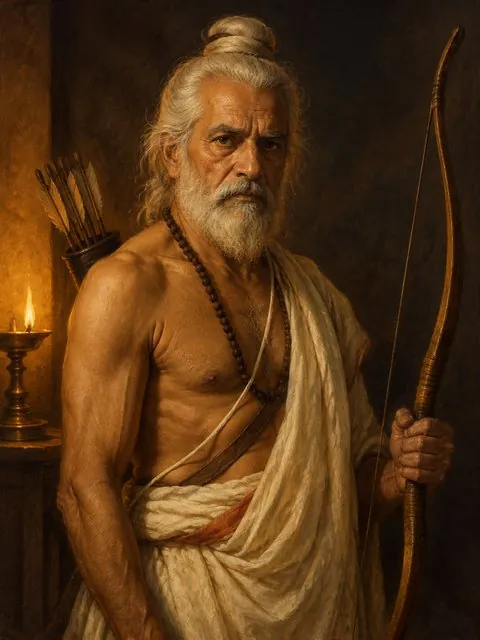
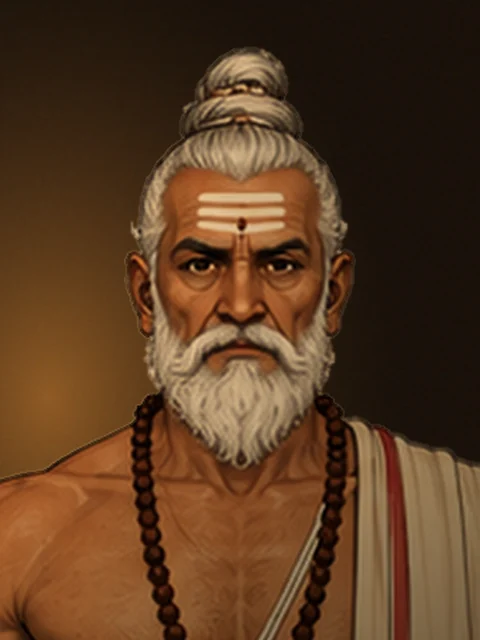
Version 57: the 18 portraits that contradicted the sheets are cut from the sheets
The owner chose to make do without a painter. Each of the 18 portraits
is now the head and shoulders from the person's own sheet, lifted off
the paper and set on a dark, lamp-lit ground (art/p_<id>.webp, 480 by
640 as before, so no code changed). The nine story paintings stay.

tools/portraits/cut_portrait.py does it: paints out the sheet's
lettering, finds the paper, peels the white glow and the loose grey
strands the sheets draw round a figure, frames head and shoulders, and
grades toward lamp light. JOBS lists what was tuned by hand per sheet.

Docs: the brief, the notes, the review, the costume audit, the GDD and
the asset review say what was done, and that the 3D heads (set to the
old paintings on 12 November) do not follow the portraits yet.

Tests: rules3d 100, tests3d_rules 18, rules, golden 16 lives, fights
within bands, content, smoke3d 3 cases; both parts checked.

Claude-Session: https://claude.ai/code/session_013J1a58CtyCknkV7JsqcsjP

diff --git a/tools/portraits/cut_portrait.py b/tools/portraits/cut_portrait.py
@@ -1,0 +1,182 @@
+#!/usr/bin/env python3
+"""Portraits cut from the artist's sheets.
+
+The sheets are the true look of every person. Where a painted portrait contradicted its sheet, the
+portrait is now cut from the sheet itself: the head and shoulders are lifted off the paper, the sheet's
+title is painted out, and the figure is set on a dark, lamp-lit ground and graded warm, so that it sits
+beside the painted portraits that remain. (Decided 15 November 2026: docs/Repaint_Brief.md.)
+
+  python3 tools/portraits/cut_portrait.py <sheets> <out> [--install] [--only id,id] [--look]
+
+<sheets>   a folder holding index.json ({"files": {sheet name: path}}) and the sheets themselves
+           (3000 by 1688). A path is read from that folder, or from the folder above it. The sheets
+           are not in this repo.
+<out>      where the 480 by 640 PNGs go (p_<id>.png).
+--install  also writes art/p_<id>.webp, the files the game shows.
+--look     also writes <out>/look.jpg: every old portrait beside the new one, with the round face the
+           game shows.
+
+Needs Pillow, numpy and scipy. JOBS below is the whole list; add a line to give another person a face.
+"""
+import json, os, sys
+import numpy as np
+from PIL import Image, ImageDraw, ImageFilter, ImageFont
+from scipy import ndimage as ndi
+
+ROOT = os.path.dirname(os.path.dirname(os.path.dirname(os.path.abspath(__file__))))
+# id -> (sheet, settings). tol: how far from the paper's colour still counts as paper (lower where white cloth lies on the paper).
+JOBS = {
+    "arjuna": ("arjuna_grown_court", {"erase": [(0, 0, 299, 116)]}),          # the title's second line ends against the wing of his diadem
+    "bhima": ("bhima_grown_court", {}),
+    "yudhishthira": ("yudhishthira_grown_court", {"gaps": [(240, 577)]}),
+    "karna": ("karna_grown_court", {"gaps": [(226, 575)]}),
+    "duryodhana": ("duryodhana_grown_court", {"erase": [(0, 0, 760, 56)]}),   # the title's last letter stands on the tip of his crown
+    "bhishma": ("bhishma_old_court", {}),
+    "drona": ("drona_old_teacher", {}),
+    "kripa": ("kripa_old_court", {}),
+    "vidura": ("vidura_old_court", {}),
+    "ashwatthama": ("ashwatthama_grown_war", {}),
+    "dhrishtadyumna": ("dhrishtadyumna_grown_war", {}),
+    "satyaki": ("satyaki_grown_war", {}),
+    "abhimanyu": ("abhimanyu_youth_war", {}),
+    "ghatotkacha": ("ghatotkacha_grown_war", {"gaps": [(568, 655), (190, 640)]}),
+    "mauni": ("mauni_old_forest", {}),
+    "charu": ("charu_grown_smith", {"redline": (186, 210)}),
+    "ugra_adult": ("ugra_grown_home", {"gaps": [(243, 335)], "redline": (186, 210)}),
+    "ugra_young": ("ugra_grown_home", {"gaps": [(243, 335)], "redline": (186, 210)}),   # there is no sheet of him young
+}
+REGION = (170, 0, 930, 1300)     # the front figure down to the hands on every sheet (so the paper between arm and body joins the paper outside)
+W, H, AIR = 340, 453, 34         # the cut, in sheet pixels (3 wide to 4 high), and the air left above the crown: head and
+                                 # shoulders, so that the face is as large in the game's round frame as on the painted portraits
+
+
+def cut(sheet_path, tol=10, air=AIR, dx=0, gaps=(), erase=(), redline=None, islands=False, debug=None):
+    """Returns the 480 by 640 portrait.
+    gaps:    points (x, y) in REGION, each inside a patch of bare paper that an arm or a lock of hair shuts in.
+             (Paper and white cloth are too alike to tell apart safely, so such a patch is named by hand.)
+    erase:   boxes (x0, y0, x1, y1) in REGION wiped to paper first: lettering that touches the figure.
+    redline: rows (y0, y1) in REGION where the sheet's red dashed height line runs into the hair: its red is wiped.
+    islands: keep pieces that only the white glow joined to the figure (a jewel hung by a thread). Off: they are dropped."""
+    im = Image.open(sheet_path).convert("RGB").crop(REGION)
+    a = np.asarray(im).astype(np.int16)
+    bg = np.median(a[:40, -40:].reshape(-1, 3), axis=0)                     # the paper, from the top right corner
+    for x0, y0, x1, y1 in erase: a[y0:y1, x0:x1] = bg
+    mx, mn = a.max(axis=2), a.min(axis=2)
+    if redline:
+        band = np.zeros(mx.shape, bool); band[redline[0]:redline[1]] = True
+        red = band & (a[..., 0] - np.maximum(a[..., 1], a[..., 2]) >= 60)
+        a[red | (ndi.binary_dilation(red, iterations=3) & band & (mn > 150))] = bg
+        mx, mn = a.max(axis=2), a.min(axis=2)
+    # 1. The sheet's lettering and height marks: dark strokes, black or maroon, that touch no colour and have paper all
+    #    round them. Paint them out. (Strict on purpose: a looser test took grey strands of hair for letters.)
+    colour = (mx - mn >= 55); light = mn > 150
+    ink = (mx < 120) & ((mx - mn < 40) | ((mx - mn < 80) & (a[..., 0] > a[..., 1] + 12) & (a[..., 0] > a[..., 2] + 12)))
+    dl, dn = ndi.label(ink)
+    if dn:
+        touch = ndi.maximum(ndi.binary_dilation(colour & (mx >= 120), iterations=2), dl, range(1, dn + 1)).astype(bool)
+        HH, WW = ink.shape; text = np.zeros_like(ink)
+        for i, sl in enumerate(ndi.find_objects(dl), 1):                    # (a letter has paper all round it; a shadow on dark skin has not)
+            if sl is None or touch[i - 1]: continue
+            y0, y1, x0, x1 = max(0, sl[0].start - 5), min(HH, sl[0].stop + 5), max(0, sl[1].start - 5), min(WW, sl[1].stop + 5)
+            comp = dl[y0:y1, x0:x1] == i; ring = ndi.binary_dilation(comp, iterations=4) & ~comp
+            if ring.any() and light[y0:y1, x0:x1][ring].mean() > 0.8: text[y0:y1, x0:x1] |= comp
+        a[ndi.binary_dilation(text, iterations=3)] = bg
+        mx, mn = a.max(axis=2), a.min(axis=2)
+    # 2. The paper: flat cream that reaches the top or a side. What is left is the figure; its largest piece is the person.
+    diff = np.abs(a - bg).max(axis=2)
+    near = diff <= tol
+    lab, n = ndi.label(near)
+    edge = set(np.unique(np.concatenate([lab[0, :], lab[:, 0], lab[:, -1]]))) - {0}
+    paper = np.isin(lab, list(edge))
+    if gaps:                                                               # a named gap: the light patch round the point, as far as the drawn lines that shut it in
+        lightish = (mn >= bg.min() - 12) & (mx - mn <= 30); ll, _ = ndi.label(lightish)
+        for gx_, gy_ in gaps:
+            if not ll[gy_, gx_]: sys.exit("gap (%d, %d) is not on a light patch" % (gx_, gy_))
+            patch = ll == ll[gy_, gx_]; win = np.zeros_like(patch); win[max(0, gy_ - 260):gy_ + 260, max(0, gx_ - 160):gx_ + 160] = True
+            paper |= patch & win
+    if debug is not None:                                                   # every shut-in light patch, for choosing the gaps
+        debug["lab"] = lab; debug["paper"] = paper.copy(); debug["rgb"] = a.astype(np.uint8)
+    fig = ~paper
+    lab2, n2 = ndi.label(fig)
+    mask = lab2 == 1 + int(np.argmax(ndi.sum(fig, lab2, range(1, n2 + 1))))
+    # 3. The sheets draw a white glow round every figure, a few pixels wide. Peel it: from the rim inward, only what is
+    #    as light as the paper, and stop at the first drawn line. Then one pixel more, and tint the new rim from inside.
+    #    Black hair is drawn with loose grey strands over that glow: thin, colourless, beside the hair. They go too,
+    #    or they would stand out pale against the dark ground.
+    white = mn >= bg.min() - 2
+    grey = (mn >= 120) & (mx - mn <= 12); strand = grey & ~ndi.binary_opening(grey, structure=np.ones((5, 5), bool))
+    strand &= ndi.binary_dilation(ndi.binary_opening(mx < 60, iterations=3), iterations=10)
+    for _ in range(8):
+        rim = mask & ~ndi.binary_erosion(mask, border_value=1)
+        peel = rim & (white | strand)
+        if not peel.any(): break
+        mask &= ~peel
+    lab3, n3 = ndi.label(mask)                                              # what the glow alone held on to the figure
+    if n3 > 1:
+        sizes = ndi.sum(mask, lab3, range(1, n3 + 1)); main = 1 + int(np.argmax(sizes)); close = ndi.binary_dilation(lab3 == main, iterations=9)
+        near_by = [k for k in range(1, n3 + 1) if k != main and sizes[k - 1] >= 40 and close[lab3 == k].any()]
+        if debug is not None: debug["islands"] = [(int(sizes[k - 1]),) + tuple(int(v) for v in ndi.center_of_mass(lab3 == k))[::-1] for k in near_by]
+        mask = np.isin(lab3, [main] + (near_by if islands else []))
+    inner = ndi.binary_erosion(mask, border_value=1)
+    idx = ndi.distance_transform_edt(~ndi.binary_erosion(inner, border_value=1), return_distances=False, return_indices=True)
+    rgb = a.astype(np.uint8).copy(); rim = inner & ~ndi.binary_erosion(inner, border_value=1)
+    rgb[rim] = rgb[idx[0][rim], idx[1][rim]]
+    # 4. Lamp light: warmer and deeper.
+    f = (rgb.astype(np.float32) / 255.0) ** 1.18 * np.array([0.97, 0.83, 0.64], np.float32)
+    # 5. Frame it: air above the crown (more ground is added above where the sheet has none), the head in the middle.
+    PAD = 80; f = np.pad(f, ((PAD, 0), (0, 0), (0, 0))); inner = np.pad(inner, ((PAD, 0), (0, 0)))
+    hh, ww = inner.shape
+    rows = np.flatnonzero(inner[:, ww // 2 - 150: ww // 2 + 150].any(axis=1)); y_top = int(rows[0]) if len(rows) else PAD + 60
+    head = inner[y_top: y_top + 230]; x_mid = int(round(np.average(np.arange(ww), weights=head.sum(axis=0)))) if head.any() else ww // 2
+    x0 = int(np.clip(x_mid - W // 2 + dx, 0, ww - W)); y0 = int(np.clip(y_top - air, 0, hh - H))
+    if debug is not None: debug["box"] = (x0, y0 - PAD, x0 + W, y0 - PAD + H)
+    f = f[y0:y0 + H, x0:x0 + W]
+    m = Image.fromarray((inner[y0:y0 + H, x0:x0 + W] * 255).astype(np.uint8)).filter(ImageFilter.GaussianBlur(0.7))
+    gx = np.linspace(0, 1, W)[None, :, None]; gy = np.linspace(0, 1, H)[:, None, None]
+    f *= (1.10 - 0.42 * gx) * (1.0 - 0.30 * np.clip((gy - 0.55) / 0.45, 0, 1))          # lit from the left, falling away toward the foot
+    fg = Image.fromarray((np.clip(f, 0, 1) * 255).astype(np.uint8))
+    yy, xx = np.mgrid[0:H, 0:W].astype(np.float32); d = np.sqrt(((xx / W - 0.10) / 0.75) ** 2 + ((yy / H - 0.62) / 0.75) ** 2)
+    wall = np.array([26, 17, 10], np.float32) + (np.clip(1 - d, 0, 1)[..., None] ** 1.6) * np.array([118, 74, 28], np.float32)
+    wall += np.random.default_rng(7).normal(0, 2.2, wall.shape)
+    ground = Image.fromarray(np.clip(wall, 0, 255).astype(np.uint8)).filter(ImageFilter.GaussianBlur(0.8))
+    return Image.composite(fg, ground, m).resize((480, 640), Image.LANCZOS)
+
+
+def face(im, d=128):
+    """The round face as the game shows it: the picture's full width, a fifth of the way down."""
+    w, h = im.size; top = round((h - w) * 0.2); sq = im.crop((0, top, w, top + w)).resize((d, d), Image.LANCZOS)
+    m = Image.new("L", (d * 4, d * 4), 0); ImageDraw.Draw(m).ellipse((0, 0, d * 4 - 1, d * 4 - 1), fill=255); m = m.resize((d, d), Image.LANCZOS)
+    out = Image.new("RGB", (d + 12, d + 12), (24, 20, 16)); r = Image.new("L", ((d + 8) * 4, (d + 8) * 4), 0); ImageDraw.Draw(r).ellipse((0, 0, (d + 8) * 4 - 1, (d + 8) * 4 - 1), fill=255); r = r.resize((d + 8, d + 8), Image.LANCZOS)
+    out.paste(Image.new("RGB", (d + 8, d + 8), (201, 158, 74)), (2, 2), r); out.paste(sq, (6, 6), m); return out
+
+
+def main():
+    args = [x for x in sys.argv[1:] if not x.startswith("--")]; flags = [x for x in sys.argv[1:] if x.startswith("--")]
+    if len(args) < 2: sys.exit(__doc__)
+    sheets, out = args[0], args[1]; os.makedirs(out, exist_ok=True)
+    only = next((x.split("=", 1)[1].split(",") for x in flags if x.startswith("--only=")), None)
+    files = json.load(open(os.path.join(sheets, "index.json"))); files = files.get("files", files)
+    done = []
+    for pid, (sheet, opt) in JOBS.items():
+        if only and pid not in only: continue
+        path = next((q for q in (os.path.join(sheets, files[sheet]), os.path.join(os.path.dirname(os.path.abspath(sheets)), files[sheet])) if os.path.exists(q)), None)
+        if not path: sys.exit("no sheet for %s: %s" % (pid, files[sheet]))
+        new = cut(path, **opt); new.save(os.path.join(out, "p_%s.png" % pid)); done.append(pid)
+        if "--install" in flags: new.save(os.path.join(ROOT, "art", "p_%s.webp" % pid), "WEBP", quality=86, method=6)
+    if "--look" in flags:
+        try: font = ImageFont.truetype("/usr/share/fonts/truetype/dejavu/DejaVuSans-Bold.ttf", 18)
+        except Exception: font = ImageFont.load_default()
+        PW, PH, G, M, COLS = 210, 280, 6, 18, 3; CW = PW * 2 + G; RH = 30 + PH + 150
+        rows = (len(done) + COLS - 1) // COLS; sheet = Image.new("RGB", (COLS * CW + (COLS + 1) * M, rows * RH + M), (24, 20, 16)); dr = ImageDraw.Draw(sheet)
+        for i, pid in enumerate(done):
+            x = M + (i % COLS) * (CW + M); y = M + (i // COLS) * RH; new = Image.open(os.path.join(out, "p_%s.png" % pid))
+            old_p = os.path.join(out, "old", "p_%s.webp" % pid); old = Image.open(old_p if os.path.exists(old_p) else os.path.join(ROOT, "art", "p_%s.webp" % pid)).convert("RGB").resize((480, 640), Image.LANCZOS)
+            dr.text((x, y), pid, fill=(240, 222, 180), font=font)
+            sheet.paste(old.resize((PW, PH), Image.LANCZOS), (x, y + 30)); sheet.paste(new.resize((PW, PH), Image.LANCZOS), (x + PW + G, y + 30))
+            sheet.paste(face(old), (x + (PW - 140) // 2, y + 30 + PH + 6)); sheet.paste(face(new), (x + PW + G + (PW - 140) // 2, y + 30 + PH + 6))
+        sheet.save(os.path.join(out, "look.jpg"), quality=88)
+    print("cut", len(done), "portraits" + (" and installed them in art/" if "--install" in flags else ""))
+
+
+if __name__ == "__main__":
+    main()

diff --git a/docs/Repaint_Brief.md b/docs/Repaint_Brief.md
@@ -2,9 +2,11 @@
 
 *15 November 2026. Written after the decision that the artist's sheets are the true look. The same list with every painting beside its sheet is on the page [Kurukshetra Repaint List](https://claude.ai/artifact/FDy7wCE4exGo6UwDK93qp7).*
 
+**State, 15 November (Version 57):** the owner chose to make do without a painter. All 18 portraits were replaced by cuts from the sheets themselves (`tools/portraits/cut_portrait.py`) and are in the game. The story paintings stay as they are. The rest of this brief is kept as what a painter would need, should painted ones be wanted later.
+
 ## In short
 
-Eighteen portraits and nine story paintings show a hero who contradicts his own sheet. Those are the ones to repaint.
+Eighteen portraits and nine story paintings showed a hero who contradicts his own sheet. Those were the ones to repaint.
 
 | What | How many |
 |---|---|
@@ -154,15 +156,18 @@ Here the hero is small, or seen from behind, and the fault is mostly a colour. T
 
 New painting, not repainting, and nothing waits on it. These people have a sheet and a bond with the player in the story, but no portrait at all: Krishna, Draupadi, Dushasana, Shakuni, Balarama and Prince Uttara. Shalya, Jayadratha, Shikhandi, Nakula and Sahadeva have sheets too and stand in the war. A portrait for each, painted from the sheet in the same lamp-lit style, would give every named person a face. (Each new portrait also needs its name added to `PORTRAITS` in `js/ui/dom.js`.)
 
-## Making do without a painter
+## Done without a painter
 
-Asked the same day: can the game do without the repaintings? It can. Nothing breaks; what is lost is the match between a painted hero and the 3D hero built from his sheet.
+Asked the same day: can the game do without the repaintings? It can, and the owner chose that. Nothing breaks; what would have been lost is the match between a painted hero and the 3D hero built from his sheet.
 
-- **Portraits, with no painter:** the 18 can be cut from the sheets themselves. The head and shoulders are lifted off the paper, the sheet's title is painted out, and the figure is set on a dark, lamp-lit ground and graded warm. A test of eight (Arjuna, Bhima, Yudhishthira, Karna, Kripa, Bhishma, Satyaki, Abhimanyu) was made and shown to the owner. It holds up at the size the game shows a face (a circle of 22 to 74 points).
-- **What that costs:** the cut portraits are drawn, not painted, so they differ in style from the 13 painted portraits that stay, most of all where a memory shows a portrait large in a gold frame. Every court sheet is bare-chested. And it puts cuts of the sheets into `art/`, which the owner has so far kept out of the repo.
-- **Story paintings:** left as they are. They read as illustration, and the hero's dress in nine of them will differ from his 3D self.
+- **Portraits (done, Version 57):** all 18 are cut from the sheets themselves by `tools/portraits/cut_portrait.py`. The head and shoulders are lifted off the paper, the sheet's lettering is painted out, the white glow the sheets draw round a figure is peeled away, and the figure is set on a dark, lamp-lit ground and graded warm. The frame is head and shoulders (340 sheet pixels wide), which makes the face as large in the game's round frame as on the painted portraits.
+- **Tuned by hand, per sheet:** Duryodhana's title stands on the tip of his crown and Arjuna's runs into the wing of his diadem (wiped by a box); the red height line runs into Charu's and Ugra's hair (its red is wiped); bare paper is shut in between arm and body on Yudhishthira, Karna and Ghatotkacha and beside Ugra's ear (each named by a point). The list is `JOBS` in the tool.
+- **What it cost:** the cut portraits are drawn, not painted, so they differ in style from the 13 painted portraits that stay, most of all where a memory shows a portrait large in a gold frame. The bows, maces and lamps of the old paintings are gone. Every court sheet is bare-chested. Young Ugra shows the grown man, since there is no sheet of him young. And cuts of the sheets are now in `art/`, with the owner's yes; the sheets themselves are still not in the repo.
+- **The fighters do not follow yet.** The 3D heads were matched to the old paintings on 12 November. Each new portrait was set above its 3D head: seven differ in hair or beard (Karna and Duryodhana are bearded in their portraits and clean-shaven as figures; Yudhishthira has a moustache alone in his portrait and a full beard as a figure; Kripa a white top-knot and beard against short hair and a bare chin; Mauni old and white-haired against dark; Ugra a full head of hair against a shaved head; Vidura bald on top against a full head of hair), and the crowned heroes share one tall crown as figures where each portrait shows his own. Satyaki and Abhimanyu wear helmets in their portraits and bands as figures. This is put right when each hero is built from his own sheet (the next step in `docs/Human_Asset_Review.md`).
+- **Story paintings:** left as they are. They read as illustration, and the hero's dress in nine of them differs from his sheet.
+- **Faces still missing** can be had the same way: add a line to `JOBS` and the name to `PORTRAITS` in `js/ui/dom.js`.
 - **Later, another way:** portraits photographed from the 3D heroes once they wear their sheet dress.
-- **State:** a test only. Nothing is in the game. The reference pictures for a real repaint were also handed over as a zip, one folder per job.
+- The reference pictures for a real repaint were handed over as a zip, one folder per job.
 
 ## How this was checked
 

diff --git a/docs/Conversion_Notes.md b/docs/Conversion_Notes.md
@@ -466,7 +466,9 @@ Asked for: a review of every human figure (`docs/Human_Asset_Review.md`), then o
 What that means, and was found by setting models beside sheets:
 - The models keep the sheets' colours, who is crowned and who is in armour, and the order of heights. They do not yet keep each hero's own war coat, crown and sign (a lion on Bhima, a horse's head on Nakula, a bull's on Sahadeva, the sun on Karna, flames on Dhrishtadyumna), the wound and draped cloth, a body for each person (a child of about 5 heads, a woman's hips, a lean Yudhishthira), hair in locks, or sandals and quivers.
 - Some beards and hair were set to the *paintings* on 12 November and so now disagree with the sheets (Yudhishthira: the sheet has a moustache, the model a full beard; Duryodhana: the sheet has a moustache and chin beard, the model none).
-- The paintings are to be repainted from the sheets: 18 of the 31 portraits (13 repainted, 5 touched up; Drupada and Virata already match; 11 have no sheet) and nine story paintings where a hero fills the frame. Every picture file was checked; the list, with what to change in each, is `docs/Repaint_Brief.md`.
+- The paintings that contradict the sheets: 18 of the 31 portraits (Drupada and Virata already match; 11 have no sheet) and nine story paintings where a hero fills the frame. Every picture file was checked; the list, with what a painter would change in each, is `docs/Repaint_Brief.md`.
+- **Version 57, the same day: the 18 portraits are cut from the sheets, with no painter** (the owner's choice; the story paintings stay as they are). `tools/portraits/cut_portrait.py` lifts the head and shoulders off a sheet, paints out its lettering, peels the white glow the sheets draw round a figure, and sets it on a dark lamp-lit ground; its README lists what was tuned by hand for which sheet. The files are `art/p_<id>.webp`, 480 by 640 as before, so no code changed. Cuts of the sheets are thereby in `art/` (with the owner's yes); the sheets themselves are still not in the repo.
+- Left open by that: the portraits now show the sheets' hair and beards, and the 3D heads were set to the old paintings on 12 November. Karna, Duryodhana and Kripa are bearded in their portraits and clean-shaven as figures; Yudhishthira has a moustache in his portrait and a beard as a figure; Kripa has a white top-knot and beard in his portrait and short hair as a figure; Ugra has a full head of hair in his portrait and a shaved head as a figure; Mauni is white-haired in his portrait and dark as a figure; Vidura is bald on top in his portrait and has a full head of hair as a figure. The crowned heroes share one tall crown as figures where each portrait shows his own, and Satyaki and Abhimanyu wear helmets in their portraits and bands as figures. (Each portrait was set above its 3D head with `tools/review/closeup.js` to see this.) The heads are built in Blender (`tools/blender/cast_specs.py`), so this waits for the step that builds each hero from his sheet.
 - The order of work is in the review. The sheets themselves are not in the repo (parked by the owner).
 
 First small steps, code only (no model was rebuilt):

diff --git a/tools/portraits/README.md b/tools/portraits/README.md
@@ -1,0 +1,48 @@
+# Portraits cut from the artist's sheets
+
+`cut_portrait.py` makes the round faces of the people you know (`art/p_<id>.webp`) from the artist's
+character sheets, with no painter. It was written on 15 November 2026, when the sheets became the true
+look and the owner chose to make do without repainting (see `docs/Repaint_Brief.md`).
+
+```
+python3 tools/portraits/cut_portrait.py <sheets> <out> [--install] [--only=id,id] [--look]
+```
+
+- `<sheets>`: a folder with `index.json` (`{"files": {sheet name: path}}`) and the sheets (3000 by 1688).
+  The sheets are not in this repo.
+- `<out>`: where the 480 by 640 PNGs go. `--install` also writes `art/p_<id>.webp`.
+- `--look` writes `<out>/look.jpg`: each portrait as it was beside the new one, with the round face the
+  game shows. Put the old files in `<out>/old/` first, or it compares the new ones with themselves.
+
+Needs Pillow, numpy and scipy.
+
+## What it does to a sheet
+
+1. Takes the front figure, head to hands (`REGION`).
+2. Paints out the sheet's lettering: dark strokes, black or maroon, with paper all round them.
+3. Finds the paper (flat cream that reaches the top or a side). The largest thing left is the person.
+4. Peels the white glow the sheets draw round every figure, and the loose grey strands drawn over it
+   beside black hair. They would stand out pale on a dark ground.
+5. Frames head and shoulders (340 sheet pixels wide, a little air above the crown), so that the face is
+   as large in the game's round frame as on the painted portraits.
+6. Grades it toward lamp light and sets it on a dark wall with a lamp's glow low on the left.
+
+## Tuning by hand
+
+`JOBS` lists every portrait: its sheet and, where the sheet needs it, one of these:
+
+| Setting | For | Used on |
+|---|---|---|
+| `erase` | lettering that touches the figure, wiped by a box | Duryodhana (the title stands on the tip of his crown), Arjuna (it runs into the wing of his diadem) |
+| `redline` | the red dashed height line where it runs into hair | Charu, Ugra |
+| `gaps` | bare paper shut in by an arm or a lock of hair, named by a point inside it | Yudhishthira, Karna, Ghatotkacha, Ugra |
+| `tol` | how far from the paper's colour still counts as paper | none now (10) |
+
+Paper and white cloth are too alike to tell apart safely, which is why a shut-in gap is named by hand
+and not guessed. A looser test for lettering took grey strands of hair for letters, so that test is
+strict and the two awkward titles are wiped by a box.
+
+## To give another person a face
+
+Add a line to `JOBS`, run with `--only=<id> --look`, look at the picture, tune, then `--install`. Add
+the id to `PORTRAITS` in `js/ui/dom.js` if the person had no portrait before.

diff --git a/docs/Human_Asset_Review.md b/docs/Human_Asset_Review.md
@@ -78,7 +78,7 @@ The story screens show the painted portraits. The fights show the 3D cast. Laid 
 
 Others: Hades is also a painted story with 3D fighters. Its makers sculpt each 3D head against the 2D portrait, laid over it until the two agree ([Supergiant on Hades' characters](https://gamedeveloper.com/art/learn-how-supergiant-brought-i-hades-i-hand-painted-characters-to-life)).
 
-A fix (decided: the sheets): With the sheets as the true look, the paintings are the ones to repaint: 18 of the 31 portraits and nine story paintings, each from its own sheet (the [repaint brief](Repaint_Brief.md) names them). But the models are not yet the sheets either: see [the sheets beside the models](#sheets). Some of the gap was made on 12 November, when beards and hair were set to the paintings: Yudhishthira's sheet gives him a moustache, his painting and his model a full beard.
+A fix (decided: the sheets): With the sheets as the true look, the paintings were the ones to change: 18 of the 31 portraits and nine story paintings (the [repaint brief](Repaint_Brief.md) names them). The 18 portraits have since been cut from the sheets themselves, with no painter (Version 57); the story paintings stay as they are, by the owner's choice. But the models are not yet the sheets either: see [the sheets beside the models](#sheets). Some of the gap was made on 12 November, when beards and hair were set to the paintings: Yudhishthira's sheet gives him a moustache, his painting and his model a full beard.
 
 ### 2. One strongman body is worn by everyone
 
@@ -258,7 +258,7 @@ Nothing in the game has been changed yet.
 | Cloth as the sheets wind it | A wound lower cloth with pleats, a true wrap for women, an upper cloth in folds that swings. | Large |
 | A body for each, from the sheets | A heavy man, a lean man, an old man, a woman, a child, a youth; garments fitted again. Faces and hair toward the sheets. | Large |
 | The missing five, and your own arms | Vasu and the four beings modelled; forearms and weapon in the view through the eyes. | Medium |
-| The paintings | Eighteen portraits and nine story paintings repainted from the sheets, so that story and fight show the same people. The [repaint brief](Repaint_Brief.md) names each one. | Yours, or mine with a picture tool if you ask |
+| The paintings | Done for the eighteen portraits (Version 57): each is cut from its own sheet, with no painter. The nine story paintings stay as they are, by the owner's choice. The [repaint brief](Repaint_Brief.md) names each one. | Yours, or mine with a picture tool if you ask |
 
 ## The numbers
 

diff --git a/docs/Costume_Audit.md b/docs/Costume_Audit.md
@@ -124,6 +124,14 @@ need repainting rather than code:
 - **Dhrishtadyumna's portrait** has no crown.
 - **Ghatotkacha's portrait** has long hair where the text has it standing stiff. (His diadem, ear-rings and bear-skin are right.)
 
+**15 November: 18 portraits now come from the artist's sheets.** The sheets were made the true look, and the portraits
+that contradicted them were replaced by cuts from the sheets themselves (`docs/Repaint_Brief.md`). Against the text, the
+four above now stand like this: Arjuna wears his diadem (his skin is still lighter than "black-skinned");
+Dhrishtadyumna is crowned; Karna's portrait shows no mail but keeps his ear-rings, in the war as well; Ghatotkacha is
+bald with hoop ear-rings, and has lost the diadem and the bear-skin the text gives him (the sheet's choice). The hair
+and beards in these portraits follow the sheets, so the list under Faces above now describes the 3D heads only: Karna,
+Duryodhana and Kripa are bearded in their portraits, and Yudhishthira has a moustache alone.
+
 The 2D puppets take every change of colour, headgear, crown and weapon above. The sacred thread, garlands,
 deer-skin, bangles and blindfold are drawn on the 3D figures only.
 

diff --git a/docs/Game_Development_Document.md b/docs/Game_Development_Document.md
@@ -110,7 +110,7 @@ fights and tests in a real browser with software WebGL). CI runs the quick tier 
 |---|---|
 | 1 | Play every fight by hand (the two private play pages are the place to do it) on real phones and desktops in all three views; tune feel and frame rate |
 | 1 | Run the full test tier (playthroughs, layout, visual baselines) on this build and accept the puppets' new colours |
-| 2 | Repaint the four portraits that differ from the text (Arjuna's diadem and skin, Karna in the war, Dhrishtadyumna's crown, Ghatotkacha's hair) |
+| 2 | The portraits: 18 were replaced on 15 November by cuts from the artist's sheets, which are now the true look (`docs/Repaint_Brief.md`). Still to follow the sheets: the 3D heads' hair and beards (Karna, Duryodhana, Kripa, Yudhishthira, Ugra, Mauni, Vidura), and nine story paintings, left as they are by choice |
 | 2 | The five board and dice tests and the five button-answered tests are a 3D scene with flat controls: make them fully 3D |
 | 2 | Chariot combat for the player on the charioteer path; mounted elephant riders |
 | 2 | A free look in the close views (drag to turn), and a setting for 3D on or off in the menu |

diff --git a/docs/Asset_Review.md b/docs/Asset_Review.md
@@ -69,7 +69,7 @@ The 2D game's 452 paintings set the look: warm, late-afternoon light, earth and 
 | 4 Upper cloth like a board | Fixed: it crosses the chest. |
 | 5 Flat colour on cloth, metal, skin | Fixed: surfaces. |
 | 6 Player ignored the story | Fixed: skin, home colours, gender, age, and the amulet, manuscript, purse and eye patch. |
-| 7 Portraits and models disagree | Open: needs new portraits or a decision on which is right. |
+| 7 Portraits and models disagree | Decided 15 November: the artist's sheets are right. The 18 portraits that contradicted them are now cut from the sheets (`docs/Repaint_Brief.md`). The models do not yet wear each hero's own dress from his sheet (`docs/Human_Asset_Review.md`). |
 | 8 Hands, squad followers | Hands fixed (the fist closes on the haft; see the end of Conversion Notes). Squad followers still the plain figures. |
 | 9 Crowd pegs | Fixed. |
 | 10 Heavy beasts | Fixed: halved. |
